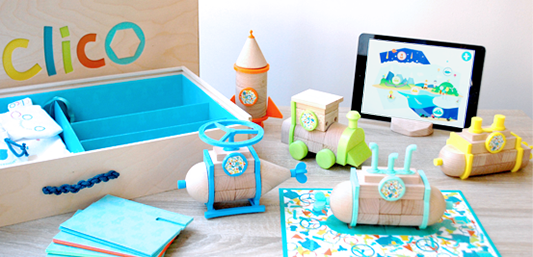
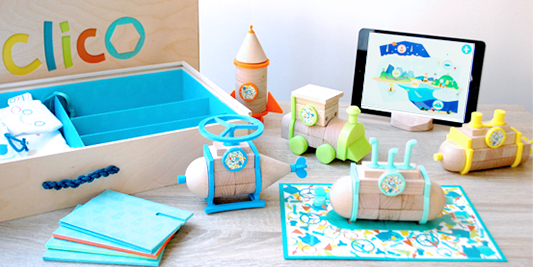
Start of the portfolio

diff --git a/app/less/main.less b/app/less/main.less
@@ -191,6 +191,9 @@ h6 {
   -webkit-transform: translateY(-50%);
   -ms-transform: translateY(-50%);
   transform: translateY(-50%);
+  ul {
+    margin-top: 80px;
+  }
 }
 .absolute-overlay {
   position: absolute;
@@ -277,7 +280,7 @@ h6 {
   }
 }
 .footlogo {
-  margin-top: 14px;
+  margin-top: 19px;
   a {
     &:hover {
       opacity: 1;
@@ -353,7 +356,8 @@ h6 {
   }
 }
 .call-to-action-inner {
-  padding: 100px 0;
+  margin-top: 50px;
+  margin-bottom: 20px;
 }
 .subheading {
   font-size: 18px;
@@ -381,9 +385,8 @@ h6 {
   border-radius: 0px;
   text-decoration: none;
   padding: 15px 20px;
-  font-size: 12px;
+  font-size: 18px;
   line-height: 19px;
-  text-transform: uppercase;
   font-weight: 400;
   letter-spacing: 1px;
   -webkit-transition: all .4s ease-in-out;
@@ -405,7 +408,6 @@ h6 {
   padding: 15px 20px;
   font-size: 18px;
   line-height: 25px;
-  text-transform: uppercase;
   font-weight: 400;
   letter-spacing: 1px;
   -webkit-transition: all .4s ease-in-out;
@@ -425,11 +427,11 @@ h6 {
   }
 }
 .btn-nexus-dark {
-  border: solid 2px #000;
+  border: solid 4px #000;
   background: transparent;
   color: @color_1;
   &:hover {
-    border: solid 2px #000;
+    border: solid 4px #000;
     background: #000;
     color: @color_5;
   }
@@ -817,6 +819,7 @@ h6 {
         font-weight: 400;
         line-height: 27px;
         padding: 5px;
+        color: @black;
       }
     }
     &:hover {
@@ -830,7 +833,7 @@ h6 {
     }
     &:after {
       content: "//";
-      color: @color_5;
+      opacity: 1;
       font-size: 16px;
       font-weight: 200;
       line-height: 23px;

diff --git a/app/stylesheets/main-bg.css b/app/stylesheets/main-bg.css
@@ -13,7 +13,7 @@
 /* INTRO / HOME VARIANTS */
 /*--------------------------------------------------------------*/
 .intro-01{
-	background-image: url('../images/index/clico_main_page.png');
+	background-image: url('../images/portfolio/triangle_main_page.png');
 }
 .intro-02{
 	background-image: url('http://placehold.it/1500x1067');
@@ -32,13 +32,6 @@
 }
 .intro-08-bg{
   background-image:url('http://placehold.it/1500x1067');
-}
-
-/*--------------------------------------------------------------*/
-/* CALL TO ACTIONS & SECTIONS */
-/*--------------------------------------------------------------*/
-.call-to-action-01{
-	background-image: url('../images/composition_main_page.png');
 }
 
 /*--------------------------------------------------------------*/
